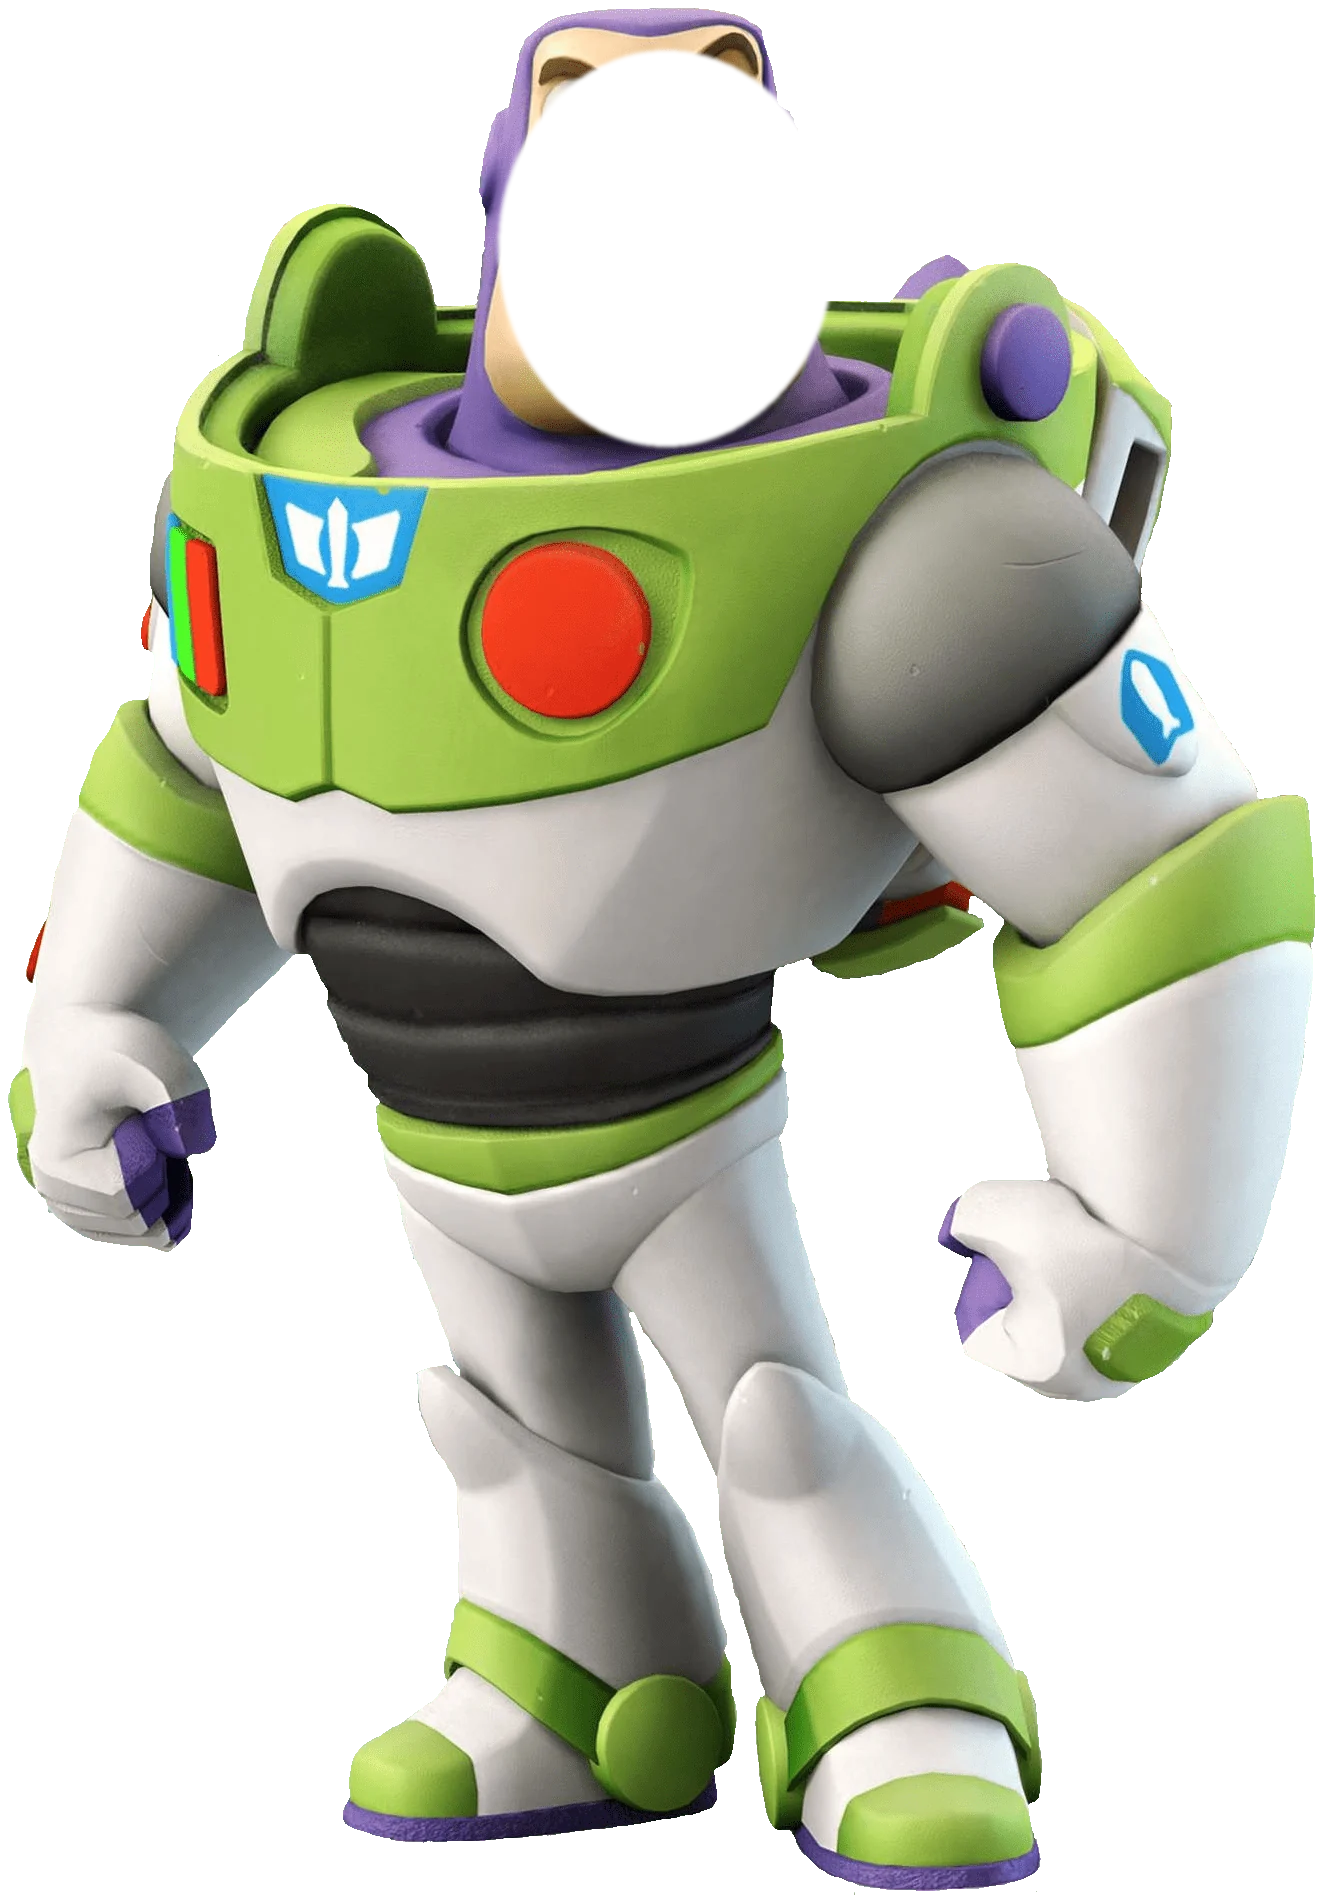
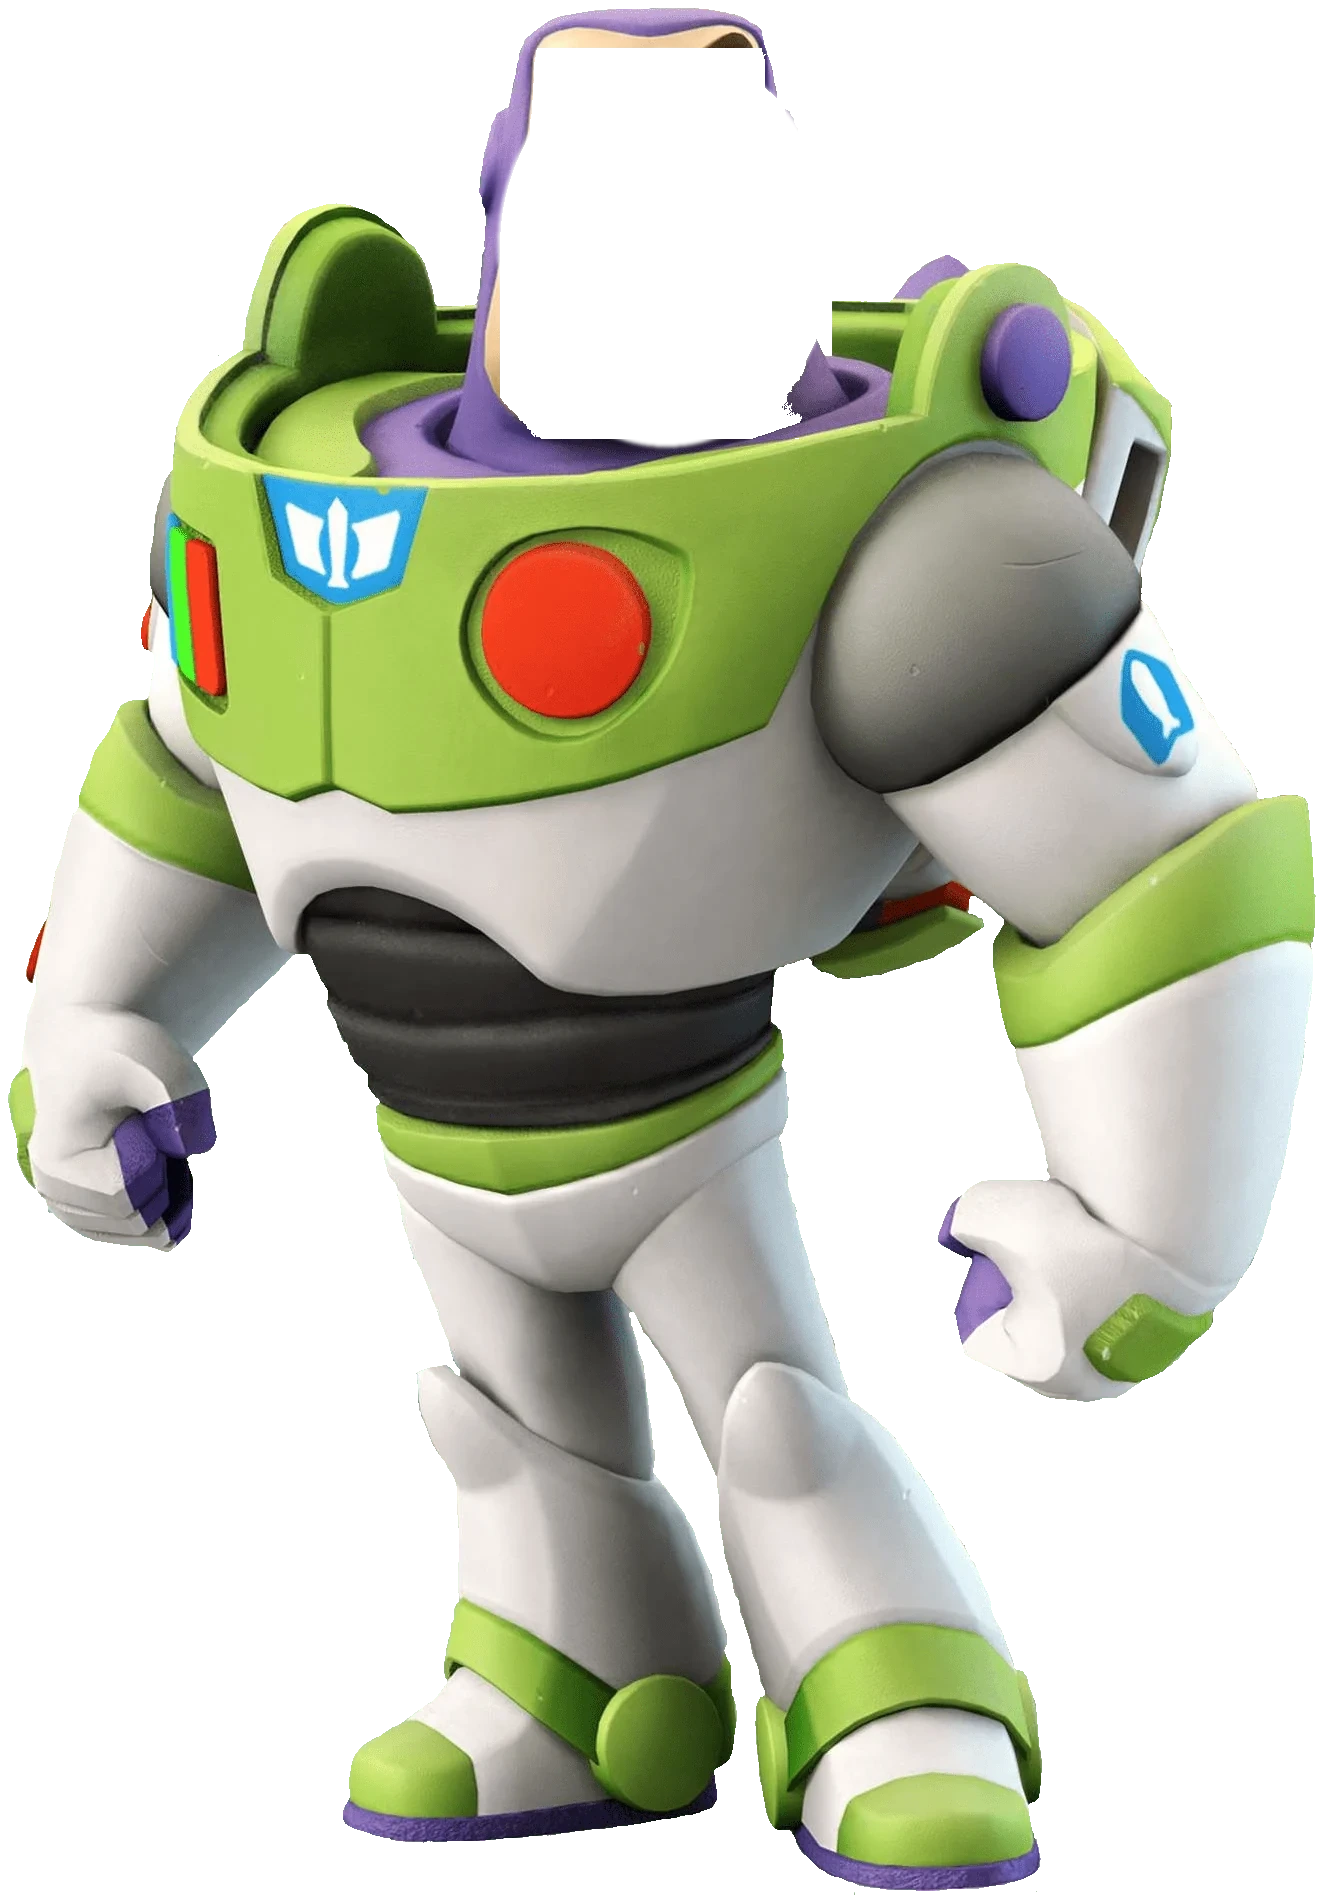
Clip outfit faces to each helmet's own visor contour.
Use extracted visor masks instead of a generic circle so Buzz, the astronaut, Sandy's globe, and the plain ring show the face through the actual opening.

diff --git a/components/figure.tsx b/components/figure.tsx
@@ -1,5 +1,41 @@
 import { getOutfit } from "@/lib/wardrobe";
 
+function Face({
+  name,
+  src,
+  box,
+}: {
+  name: string;
+  src?: string;
+  box: { cx: number; cy: number; rw: number; rh: number };
+}) {
+  const style = {
+    left: `${box.cx - box.rw}%`,
+    top: `${box.cy - box.rh}%`,
+    width: `${box.rw * 2}%`,
+    height: `${box.rh * 2}%`,
+  };
+  if (src) {
+    return (
+      // eslint-disable-next-line @next/next/no-img-element
+      <img
+        src={src}
+        alt=""
+        className="absolute object-cover object-[center_28%]"
+        style={style}
+      />
+    );
+  }
+  return (
+    <span
+      className="absolute flex items-center justify-center text-[11px] font-semibold text-[#f4f7f2]"
+      style={style}
+    >
+      {name.slice(0, 1)}
+    </span>
+  );
+}
+
 export function Figure({
   name,
   src,
@@ -12,7 +48,7 @@ export function Figure({
   size?: number;
 }) {
   const outfit = getOutfit(outfitId);
-  if (!outfit.src || !outfit.hole || !outfit.aspect) {
+  if (!outfit.src || !outfit.aspect) {
     return (
       <span
         className="inline-flex overflow-hidden rounded-full bg-[#2f8f8a]"
@@ -32,28 +68,24 @@ export function Figure({
 
   const width = size * outfit.aspect;
   const height = size;
+  const hole = outfit.hole ?? { cx: 50, cy: 18, rw: 16, rh: 10 };
 
   return (
     <span className="relative inline-block" style={{ width, height }}>
       <span
-        className="absolute overflow-hidden rounded-full bg-[#1a120c]"
-        style={{
-          left: `${outfit.hole.cx}%`,
-          top: `${outfit.hole.cy}%`,
-          width: `${outfit.hole.rw * 2}%`,
-          height: `${outfit.hole.rh * 2}%`,
-          transform: "translate(-50%, -50%)",
-          boxShadow: "inset 0 0 0 1px rgba(0,0,0,0.25)",
-        }}
+        className="visor-hole absolute inset-0 bg-[#1a120c]"
+        style={
+          outfit.mask
+            ? {
+                WebkitMaskImage: `url(${outfit.mask})`,
+                maskImage: `url(${outfit.mask})`,
+              }
+            : {
+                clipPath: `ellipse(${hole.rw}% ${hole.rh}% at ${hole.cx}% ${hole.cy}%)`,
+              }
+        }
       >
-        {src ? (
-          // eslint-disable-next-line @next/next/no-img-element
-          <img src={src} alt="" className="h-full w-full object-cover object-[center_28%]" />
-        ) : (
-          <span className="flex h-full w-full items-center justify-center text-[11px] font-semibold text-[#f4f7f2]">
-            {name.slice(0, 1)}
-          </span>
-        )}
+        <Face name={name} src={src} box={hole} />
       </span>
       {/* eslint-disable-next-line @next/next/no-img-element */}
       <img src={outfit.src} alt="" className="relative z-[1] h-full w-full object-contain" />

diff --git a/lib/wardrobe.ts b/lib/wardrobe.ts
@@ -7,6 +7,7 @@ export type Outfit = {
   name: string;
   price: number;
   src?: string;
+  mask?: string;
   aspect?: number;
   hole?: { cx: number; cy: number; rw: number; rh: number };
 };
@@ -17,32 +18,36 @@ export const OUTFITS: Outfit[] = [
     name: "常服",
     price: 0,
     src: "/suit-plain.webp",
+    mask: "/suit-plain-mask.webp",
     aspect: 420 / 780,
-    hole: { cx: 50, cy: 16.92, rw: 18.57, rh: 10 },
+    hole: { cx: 50, cy: 16.92, rw: 18.21, rh: 9.81 },
   },
   {
     id: "astronaut",
     name: "宇航员",
     price: 12,
     src: "/suit-astronaut.webp",
+    mask: "/suit-astronaut-mask.webp",
     aspect: 668 / 992,
-    hole: { cx: 50.16, cy: 20.87, rw: 18.71, rh: 11.44 },
+    hole: { cx: 50.15, cy: 20.92, rw: 18.79, rh: 11.49 },
   },
   {
     id: "ranger",
     name: "巴斯光年",
     price: 24,
     src: "/suit-ranger.webp",
+    mask: "/suit-ranger-mask.webp",
     aspect: 1324 / 1903,
-    hole: { cx: 50.3, cy: 13.03, rw: 12.69, rh: 10.4 },
+    hole: { cx: 50.26, cy: 12.77, rw: 12.54, rh: 10.27 },
   },
   {
     id: "diver",
     name: "松鼠头盔",
     price: 16,
     src: "/suit-diver.webp",
+    mask: "/suit-diver-mask.webp",
     aspect: 373 / 418,
-    hole: { cx: 49.06, cy: 22.97, rw: 18.77, rh: 17.22 },
+    hole: { cx: 48.39, cy: 23.68, rw: 22.25, rh: 17.82 },
   },
 ];
 

diff --git a/lib/wardrobe.test.ts b/lib/wardrobe.test.ts
@@ -36,4 +36,13 @@ describe("outfits", () => {
     assert.equal(getOutfit("nope").id, "plain");
     assert.equal(getOutfit("ranger").price, 24);
   });
+
+  it("clips each face to that outfit's helmet opening", () => {
+    for (const id of ["plain", "astronaut", "ranger", "diver"] as const) {
+      const outfit = getOutfit(id);
+      assert.ok(outfit.mask, `${id} needs a visor mask`);
+      assert.match(outfit.mask ?? "", new RegExp(`${id}-mask\\.webp$`));
+      assert.ok(outfit.hole);
+    }
+  });
 });

diff --git a/app/globals.css b/app/globals.css
@@ -260,3 +260,14 @@ body {
 .seat-glow {
   box-shadow: 0 0 0 3px #6ec8c0, 0 0 22px rgba(110, 200, 192, 0.65);
 }
+
+.visor-hole {
+  -webkit-mask-size: 100% 100%;
+  mask-size: 100% 100%;
+  -webkit-mask-repeat: no-repeat;
+  mask-repeat: no-repeat;
+  -webkit-mask-position: center;
+  mask-position: center;
+  -webkit-mask-mode: alpha;
+  mask-mode: alpha;
+}
